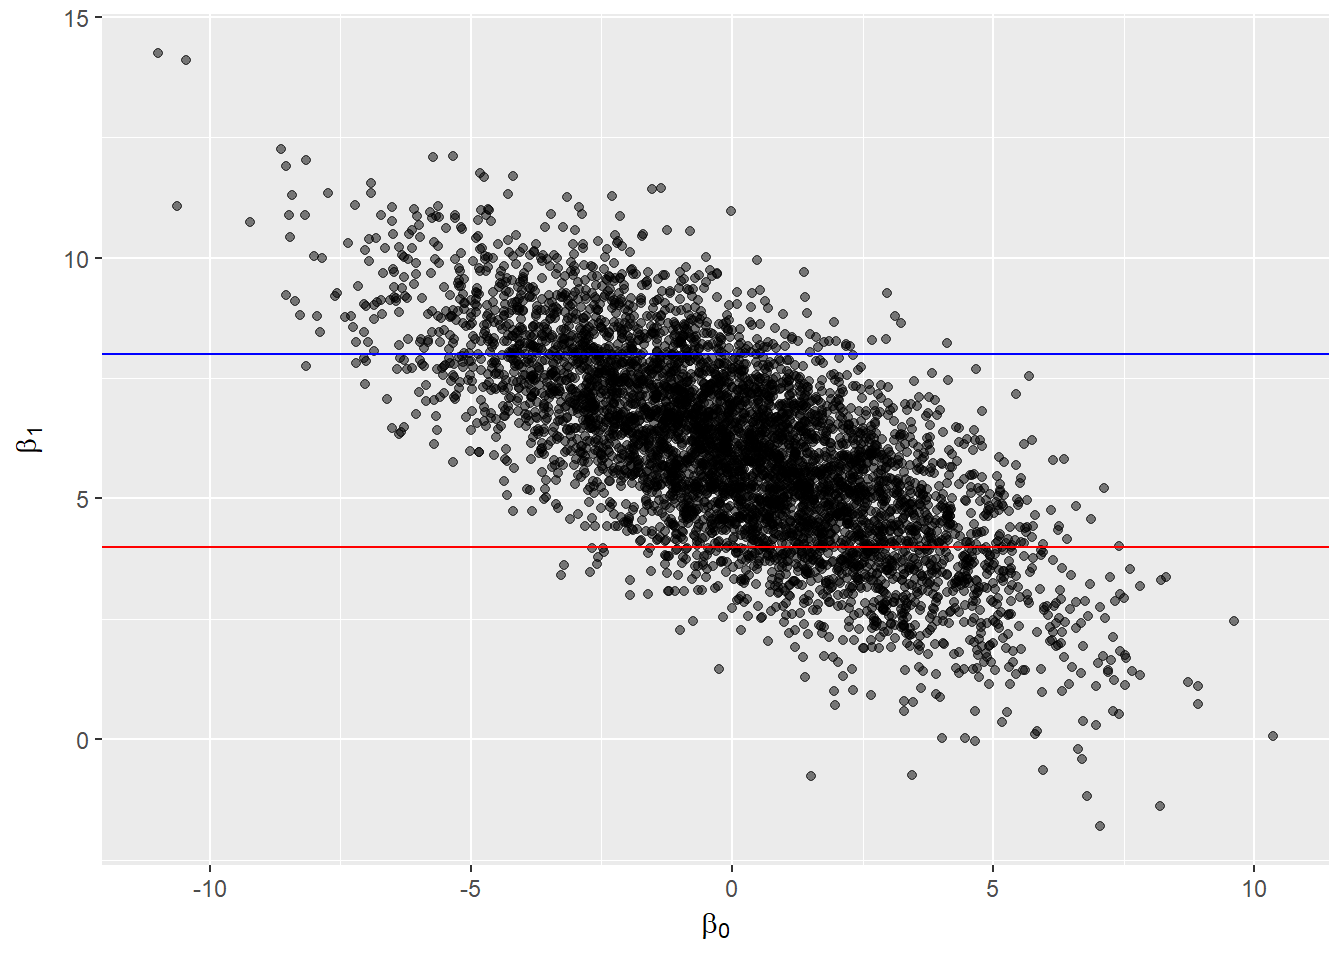
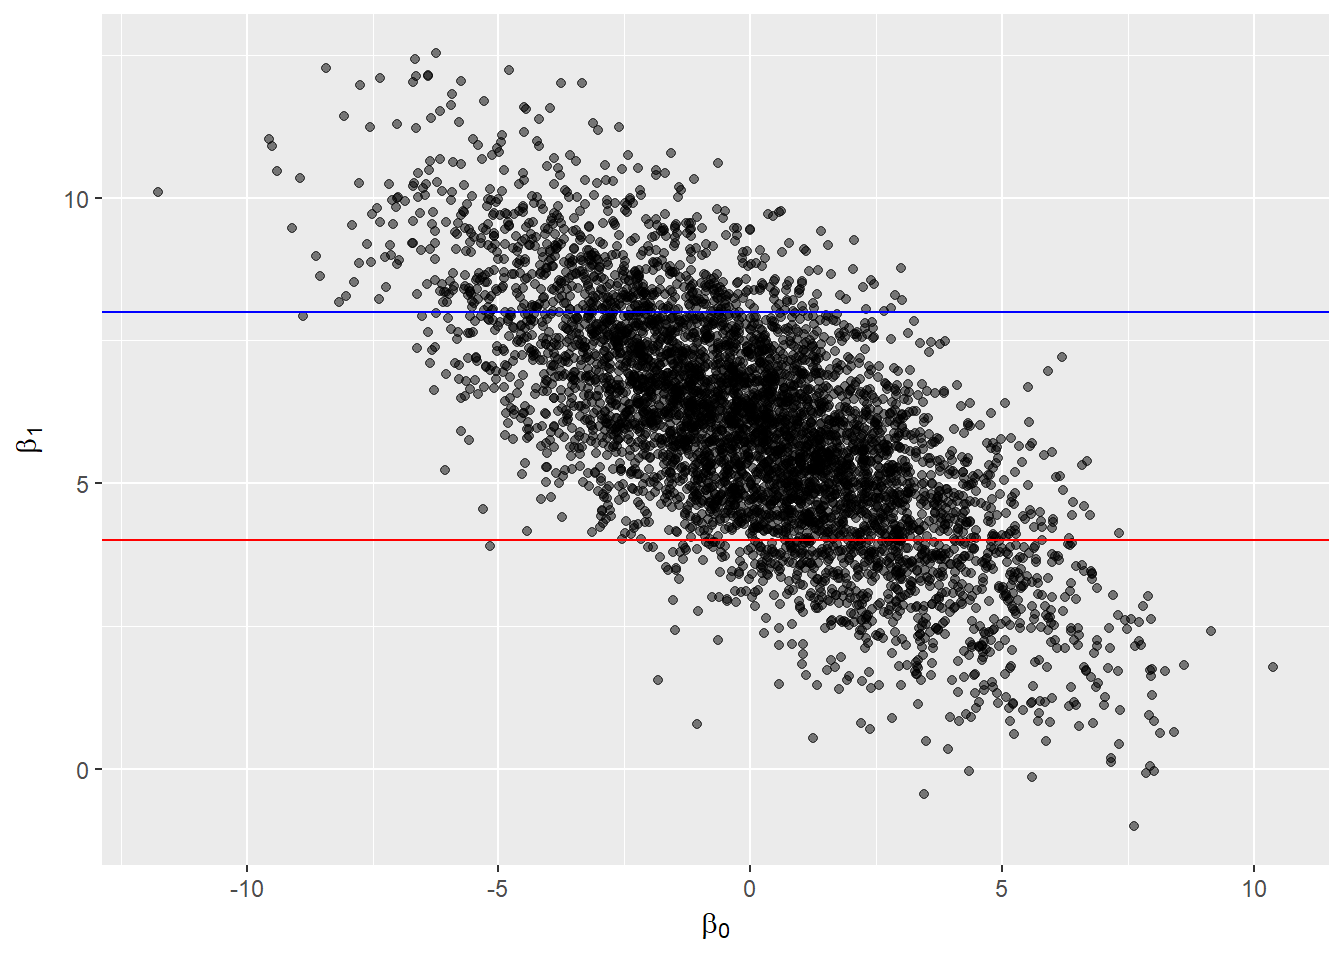
added posterior distribution images

diff --git a/05-A-Bayesian-linear-models.html b/05-A-Bayesian-linear-models.html
@@ -611,7 +611,7 @@ div.tocify {
 log(\boldsymbol{\hat{\lambda}}) = \mathbf{X}\boldsymbol{\hat{\beta}}\]</span></p>
 <p><span class="math inline">\(\mathbf{y}\)</span> is a vector of observations (of counts) with length <span class="math inline">\(n\)</span>.</p>
 <p><span class="math inline">\(\boldsymbol{\hat{\lambda}}\)</span> is a vector of the estimated mean for each observation (has length <span class="math inline">\(n\)</span>).</p>
-<p><span class="math inline">\(\mathbf{X}\)</span> is a matrix with <span class="math inline">\(n\)</span> rows and <span class="math inline">\(p\)</span> with the observed values of the <span class="math inline">\(p - 1\)</span> covariates in each of the rows. (Note that we have an initial column of all <span class="math inline">\(1\)</span> to estimate the mean.)</p>
+<p><span class="math inline">\(\mathbf{X}\)</span> is a matrix with <span class="math inline">\(n\)</span> rows and <span class="math inline">\(p\)</span> columns with the observed values of the <span class="math inline">\(p - 1\)</span> covariates in each of the rows. (Note that we have an initial column of all <span class="math inline">\(1\)</span> to estimate the mean.)</p>
 <p><span class="math inline">\(\boldsymbol{\hat{\beta}}\)</span> is a vector of the parameters to be estimated with length <span class="math inline">\(p\)</span>.</p>
 <p><strong>Bayesian inference in R</strong></p>
 <ul>
